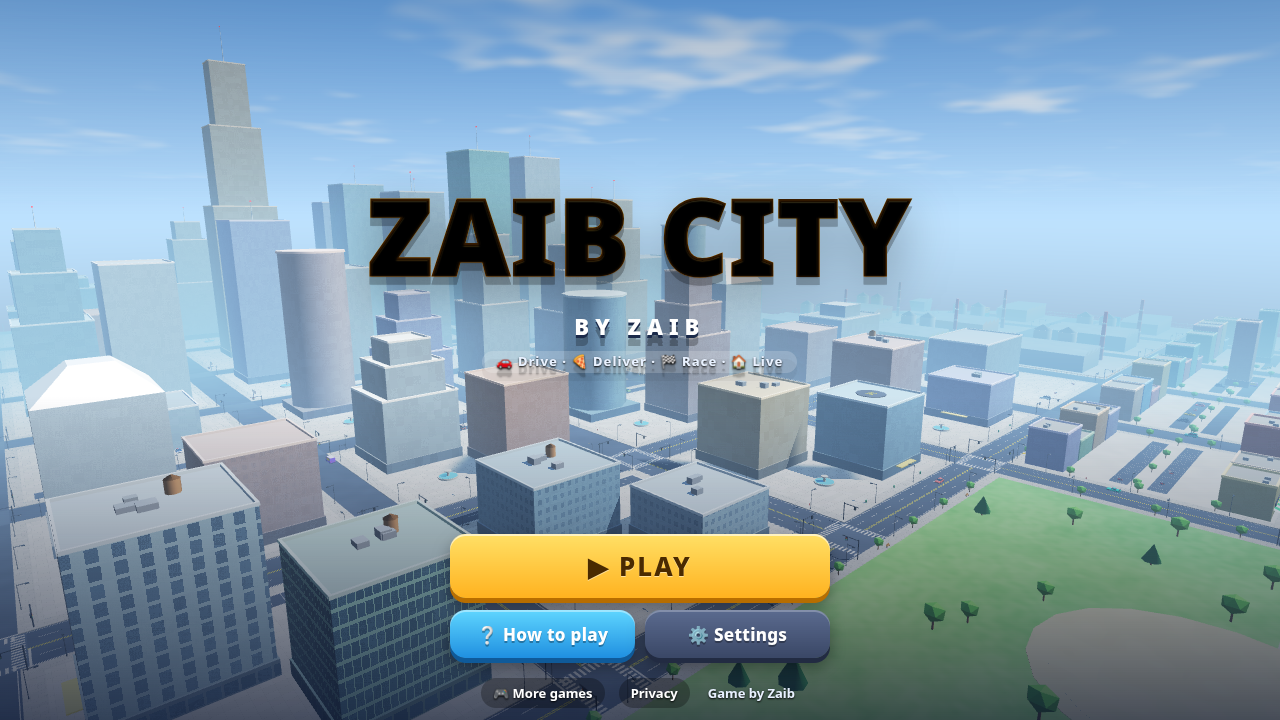
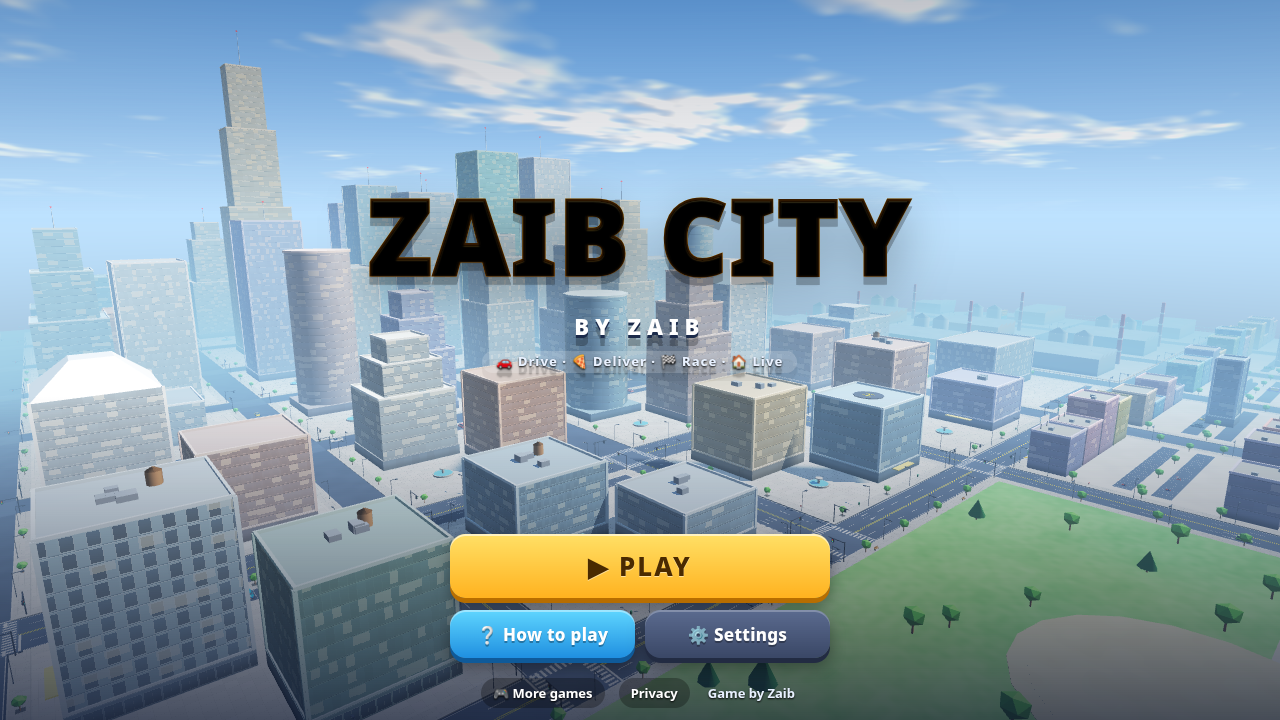
Graphics upgrade: richer facades, street dressing, cars, character, sky, rain, water, night lights, HUD polish

diff --git a/index.html b/index.html
@@ -125,6 +125,20 @@ body.steer-stick.car #joyZone{display:block!important}body.steer-stick.car #bL,b
 body.lefty #bGas{right:auto;left:calc(var(--sal) + 18px)}body.lefty #bBrake{right:auto;left:calc(var(--sal) + 124px)}body.lefty #bNitro{right:auto;left:calc(var(--sal) + 30px)}body.lefty #bHand{right:auto;left:calc(var(--sal) + 112px)}body.lefty #bHorn{right:auto;left:calc(var(--sal) + 186px)}
 body.lefty #bL{left:auto;right:calc(var(--sar) + 114px)}body.lefty #bR{left:auto;right:calc(var(--sar) + 18px)}
 @media (orientation:portrait){#bGas{width:84px;height:84px}#bBrake{width:64px;height:64px;right:calc(var(--sar) + 106px)}#bL,#bR{width:72px;height:72px}#bR{left:calc(var(--sal) + 98px)}#bHand{right:calc(var(--sar) + 96px);bottom:calc(var(--sab) + 92px);width:56px;height:56px}#bNitro{bottom:calc(var(--sab) + 118px);width:56px;height:56px}#bHorn{right:calc(var(--sar) + 22px);bottom:calc(var(--sab) + 184px);width:44px;height:44px}#bSiren{right:calc(var(--sar) + 76px);bottom:calc(var(--sab) + 160px)}body.car #bEnter{bottom:calc(var(--sab) + 236px)}#bSpray{right:calc(var(--sar) + 20px);bottom:calc(var(--sab) + 290px)}#speedo{bottom:calc(var(--sab) + 112px)}#prompt{bottom:calc(var(--sab) + 200px)}#obj{max-width:calc(100vw - 150px);top:calc(var(--sat) + 150px)}#toasts{top:calc(var(--sat) + 220px)}#hudTR{max-width:104px}}
+
+/* polished control buttons: glossy dome, coloured rim, inner depth */
+.cb{background:radial-gradient(circle at 50% 30%,rgba(70,86,120,.78),rgba(18,26,46,.82) 70%);box-shadow:0 5px 0 rgba(0,0,0,.28),0 8px 18px rgba(0,0,0,.35),inset 0 0 0 2.5px rgba(255,255,255,.55),inset 0 -6px 10px rgba(0,0,0,.28);letter-spacing:.5px;transition:transform .06s}
+.cb::before{content:"";position:absolute;left:14%;right:14%;top:6%;height:38%;border-radius:50% 50% 45% 45%/60% 60% 40% 40%;background:linear-gradient(180deg,rgba(255,255,255,.42),rgba(255,255,255,0));pointer-events:none}
+#bL::before,#bR::before{border-radius:16px 16px 40% 40%}
+.cb.on{transform:scale(.9) translateY(2px);box-shadow:0 2px 0 rgba(0,0,0,.28),0 4px 10px rgba(0,0,0,.35),inset 0 0 0 2.5px rgba(255,255,255,.75),inset 0 4px 10px rgba(0,0,0,.25)}
+#bGas{background:radial-gradient(circle at 50% 30%,#5df0a6,#16a565 72%)}
+#bBrake{background:radial-gradient(circle at 50% 30%,#ff8d80,#d33a32 72%)}
+#bNitro{background:radial-gradient(circle at 50% 30%,#7cc4ff,#1f6fe0 72%)}
+#bEnter{background:radial-gradient(circle at 50% 30%,#ffe27a,#f2a611 72%)}
+#bSpray{background:radial-gradient(circle at 50% 30%,#8fe4ff,#1aa0dc 72%)}
+#bGas.on,#bBrake.on,#bNitro.on,#bSpray.on{filter:brightness(1.18)}
+.ib{background:linear-gradient(180deg,rgba(44,60,96,.86),rgba(14,22,40,.86));box-shadow:0 3px 0 rgba(0,0,0,.25),0 5px 12px rgba(0,0,0,.35),inset 0 0 0 1.5px rgba(255,255,255,.28),inset 0 1px 0 rgba(255,255,255,.35)}
+.pill{background:linear-gradient(180deg,rgba(30,44,74,.86),rgba(12,18,34,.86));box-shadow:0 3px 10px rgba(0,0,0,.3),inset 0 0 0 1px rgba(255,255,255,.18)}
 /* dialog */
 #dlg{position:fixed;left:50%;bottom:calc(var(--sab) + 14px);transform:translateX(-50%);width:min(680px,calc(100vw - 24px));z-index:40;display:flex;gap:12px;align-items:flex-start;background:linear-gradient(180deg,rgba(255,255,255,.97),rgba(232,240,255,.97));color:#1b2a4a;border-radius:20px;padding:14px 16px;box-shadow:0 12px 34px rgba(0,0,0,.45);border:3px solid #fff;cursor:pointer;pointer-events:auto}
 #dlgAv{width:62px;height:62px;flex:0 0 62px;border-radius:18px;display:flex;align-items:center;justify-content:center;font-size:36px;box-shadow:inset 0 -4px 0 rgba(0,0,0,.15)}
@@ -369,7 +383,7 @@ vec3 grade(vec3 c){ c = max(c, 0.); vec3 k = max(c - .72, 0.); c = c - k + k/(1.
 vec3 envCol(vec3 R){ float y = R.y; vec3 c = mix(uHor, uSky*1.15, smoothstep(0.,.5,y)); c = mix(c, uGnd*.8, smoothstep(0.,-.25,y)); return c + uSunCol*pow(max(dot(R,uSunDir),0.),24.)*.6; }
 vec3 shade(vec3 base, vec3 n, vec3 W, float gls, float ao, float sh){
   vec3 V = uCam - W; float dist = length(V); V /= dist;
-  float up = step(.8, n.y); float wet = uWet*up; base *= 1. - .3*wet; gls = max(gls, wet*.6);
+  float up = step(.8, n.y); float wet = uWet*up; float pud = wet > 0. ? smoothstep(.5,.68,vno(W.xz*.12)) : 0.; base *= 1. - .3*wet - .2*pud*wet; gls = max(gls, wet*(.55 + .4*pud));
   float ndl = max(dot(n, uSunDir), 0.)*sh;
   vec3 amb = mix(uGnd, uSky, n.y*.5+.5)*ao;
   vec3 col = base*(amb + uSunCol*ndl);
@@ -380,7 +394,7 @@ vec3 shade(vec3 base, vec3 n, vec3 W, float gls, float ao, float sh){
     col += base*uHL*cone*(max(dot(n,L),0.)*.8+.2)*(120./(d*d*.3+40.))*vec3(1.,.93,.8); }
   return col;
 }
-vec3 fogit(vec3 col, vec3 W){ float dist = length(uCam - W); float f = 1. - exp(-dist*dist*uFogD*uFogD); float hfall = exp(-max(W.y,0.)*.004); return mix(col, uFogCol, clamp(f*hfall,0.,1.)); }
+vec3 fogit(vec3 col, vec3 W){ vec3 dv = W - uCam; float dist = length(dv); float f = 1. - exp(-dist*dist*uFogD*uFogD); float hfall = exp(-max(W.y,0.)*.006); float sc = pow(max(dot(dv/max(dist,.01), uSunDir),0.), 6.); vec3 fc = uFogCol + uSunCol*sc*.12*(1.-uNight); return mix(col, fc, clamp(f*hfall,0.,1.)); }
 float emis(float em, float flags){
   if(em < .5) return 0.;
   if(em < 1.5) return 1.;
@@ -402,25 +416,39 @@ const FS_STATIC = PREC + `varying vec3 vW, vN; varying vec4 vC, vM, vS;
 void main(){
   vec3 n = dot(vN,vN) > 1e-6 ? normalize(vN) : vec3(0.,1.,0.); vec3 base = vC.rgb; float ao = vC.a; float gls = vM.x/255.; float sp = vM.z; float e = emis(vM.y, 0.);
   vec3 ecol = base*1.7;
+  float gao = abs(n.y) < .5 ? mix(.58, 1., smoothstep(.2, 3.2, vW.y)) : 1.;
   if(sp > .5 && sp < 1.5 && abs(n.y) < .5){
-    float st = floor(vM.w/64.); float seed = mod(vM.w,64.);
+    float mw = floor(vM.w + .5); float st = floor(mw/64. + .001); float seed = mw - st*64.;
     float u = abs(n.x) > abs(n.z) ? vW.z : vW.x;
     vec2 cs = st < .5 ? vec2(3.2,3.6) : st < 1.5 ? vec2(1.6,3.6) : st < 2.5 ? vec2(4.,3.6) : vec2(2.6,3.);
     vec2 cell = vec2(u/cs.x, (vW.y-.4)/cs.y); vec2 f = fract(cell); vec2 id = floor(cell);
-    float win;
-    if(st < .5) win = step(.16,f.x)*step(f.x,.84)*step(.22,f.y)*step(f.y,.86);
-    else if(st < 1.5) win = step(.06,f.x)*step(f.x,.94)*step(.12,f.y)*step(f.y,.9);
-    else if(st < 2.5) win = step(.1,f.x)*step(f.x,.6)*step(.15,f.y)*step(f.y,.92);
-    else win = step(.25,f.x)*step(f.x,.75)*step(.3,f.y)*step(f.y,.8);
-    float gf = 1. - step(.5, id.y); win = mix(win, step(.08,f.x)*step(f.x,.92)*step(.05,f.y)*step(f.y,.8), gf);
+    vec4 wr = st < .5 ? vec4(.16,.84,.22,.86) : st < 1.5 ? vec4(.06,.94,.12,.9) : st < 2.5 ? vec4(.1,.6,.15,.92) : vec4(.22,.78,.26,.82);
+    float gf = 1. - step(.5, id.y); wr = mix(wr, vec4(.06,.94,.05,.82), gf);
+    float win = step(wr.x,f.x)*step(f.x,wr.y)*step(wr.z,f.y)*step(f.y,wr.w);
+    float fw = .035; float frm = (step(wr.x-fw,f.x)*step(f.x,wr.y+fw)*step(wr.z-fw,f.y)*step(f.y,wr.w+fw)) - win;
+    float mull = st > 1.5 ? 0. : step(abs(f.x - (wr.x+wr.y)*.5), .012)*win;
+    float sill = step(wr.z-.07,f.y)*step(f.y,wr.z-.01)*step(wr.x-.04,f.x)*step(f.x,wr.y+.04)*(1.-gf);
+    float ledge = (1.-gf)*step(f.y,.045); float ledgeSh = (1.-gf)*smoothstep(.13,.05,f.y)*step(.045,f.y);
     float h = hs2(id + seed*7.13);
-    vec3 wc = mix(vec3(.16,.24,.34), vec3(.30,.42,.55), h*.6);
-    float fd = smoothstep(70., 260., length(uCam - vW)); win = mix(win, .45, fd);
-    base = mix(base, wc, win); gls = mix(gls, .85, win);
-    float lit = step(.52, h) * win;
-    e = max(e, lit*uNight); ecol = mix(vec3(1.,.82,.5), vec3(.75,.88,1.), step(.85,h))*1.2;
+    vec3 Vd = normalize(uCam - vW); vec3 Rr = reflect(-Vd, n);
+    vec3 wc = mix(vec3(.13,.2,.3), vec3(.27,.4,.54), h*.7);
+    wc = mix(wc, envCol(Rr)*.85, .38 + .25*(1.-f.y));
+    wc *= .9 + .2*smoothstep(wr.z, wr.w, f.y);
+    float blind = step(.72, hs2(id*1.7 + seed)) * step(mix(wr.w, wr.z, .45 + .4*hs2(id+3.1)), f.y);
+    wc = mix(wc, vec3(.82,.78,.68), blind*.7*(1.-gf));
+    float dcam = length(uCam - vW); float px = min(cs.x, cs.y)*max(abs(dot(n, Vd)), .02)/dcam*650.;
+    float fd = max(smoothstep(70., 260., dcam), 1. - smoothstep(5., 14., px));
+    vec3 fcol = mix(base, vec3(.94,.93,.9), .55);
+    base = mix(base, base*1.12 + .04, ledge); base *= 1. - .22*ledgeSh; base = mix(base, base*1.1+.05, sill);
+    base = mix(base, fcol, frm*(1.-fd)); win = mix(win, .45, fd); mull *= 1.-fd;
+    base = mix(base, wc, win); base = mix(base, fcol*.8, mull); gls = mix(gls, .9, win);
+    float lit = mix(step(.5, h) * win, .3, fd);
+    float lv = mix(.75 + .5*hs2(id*2.3+seed), .9, fd); blind *= 1. - fd;
+    e = max(e, lit*uNight*lv); ecol = mix(vec3(1.,.8,.48), vec3(.75,.88,1.), step(.86,h))*(1.05 + .25*(1.-f.y));
+    ecol = mix(ecol, ecol*.55, blind);
     ao = 1.;
   }
+  ao *= gao;
   if(sp > 2.5 && sp < 3.5){ gls = .9; }
   if(n.y > .9){
     if(sp > 3.5 && sp < 5.5){ float ts = sp < 4.5 ? 1.25 : 2.5; vec2 g = vW.xz/ts; vec2 gf = abs(fract(g) - .5); float ln = smoothstep(.47,.495,max(gf.x,gf.y)); float tv = hs2(floor(g)); base *= (.94 + .1*tv)*(1. - .16*ln); }
@@ -468,6 +496,7 @@ void main(){
   if(uDmg > 0. && vM.w > .5 && vM.w < 1.5){ float d = hs2(floor(vW.xz*3.)+floor(vW.y*3.)); base *= 1. - uDmg*.45*step(.55, d); gls *= 1. - uDmg*.7; }
   float sh = shadowAt(vS);
   vec3 col = shade(base, n, vW, gls, vC.a, sh);
+  if(vM.w > .5 && vM.w < 2.5 && vM.z < 9.5){ vec3 V2 = normalize(uCam - vW); vec3 R2 = reflect(-V2, n); float fr2 = pow(1. - max(dot(n,V2),0.), 3.); col += envCol(R2)*fr2*.22*gls + uSunCol*pow(max(dot(R2,uSunDir),0.), 90.)*.9*sh*gls; }
   if(e > 0.) col = mix(col, vC.rgb*1.8 + .15, e*.95);
   gl_FragColor = vec4(grade(fogit(col, vW)), 1.);
 }`;
@@ -492,11 +521,19 @@ void main(){
     vec2 sp = d.xz/(y+.05)*30.; float st = step(.997, h2(floor(sp*6.)))*smoothstep(.0,.3,y);
     col += vec3(st)*uNight*.9*(.6+.4*sin(uTime*3.+h2(floor(sp*6.))*20.));
     if(uQ > .5){
-      vec2 cp = d.xz/(y+.08)*1.4 + vec2(uTime*.006, uTime*.002);
-      float c = vn(cp)*.55 + vn(cp*2.3)*.3 + vn(cp*5.1)*.15;
-      c = smoothstep(.62 - uCloud*.32, .92 - uCloud*.2, c)*smoothstep(0.,.15,y);
-      vec3 cc = mix(vec3(1.), uSunCol*.6 + uSky*.6, .25)*(1. - uNight*.75)*(1. - uCloud*.35) + uNight*vec3(.05,.06,.09);
-      col = mix(col, cc, c*.9);
+      vec2 cp = d.xz/(y+.1)*1.2 + vec2(uTime*.006, uTime*.002);
+      vec2 wp = cp + vec2(vn(cp*.7+3.1), vn(cp*.7+7.3))*.6;
+      float c = vn(wp)*.5 + vn(wp*2.1)*.28 + vn(wp*4.6)*.14 + vn(wp*9.7)*.08;
+      vec2 so = normalize(uSunDir.xz + 1e-4)*.09;
+      float c2 = vn(wp+so)*.5 + vn((wp+so)*2.1)*.28 + vn((wp+so)*4.6)*.14;
+      float cov = .6 - uCloud*.3;
+      float a = smoothstep(cov, cov + .22, c)*smoothstep(0.,.12,y);
+      float lit = clamp(.65 + (c - c2)*4.5, .25, 1.15);
+      vec3 cb = mix(uHor*.75 + vec3(.06), vec3(1.), .55);
+      vec3 cc = mix(cb*vec3(.78,.82,.92), vec3(1.02,1.,.97) + uSunCol*.12, lit) * (1. - uNight*.8) * (1. - uCloud*.32) + uNight*vec3(.04,.05,.08);
+      cc += uSunCol*pow(sd, 6.)*(1.-a)*.6*(1.-uNight);
+      col = mix(col, cc, a*.95);
+      col = mix(col, uHor, smoothstep(.12,.0,y)*.35);
     }
   }
   gl_FragColor = vec4(clamp(col,0.,1.), 1.);
@@ -510,20 +547,28 @@ void main(){
   float hx = vn(p*.08 + vec2(t*.15, t*.05)) - vn(p*.08 + vec2(.5 + t*.15, t*.05));
   float hz = vn(p*.08 + vec2(t*.05, t*.13)) - vn(p*.08 + vec2(t*.05, .5 + t*.13));
   float hx2 = vn(p*.35 - vec2(t*.4, t*.2)) - vn(p*.35 + vec2(.3,0.) - vec2(t*.4, t*.2));
-  vec3 n = normalize(vec3((hx + hx2*.5)*.55, 1., (hz)*.55));
+  float hz2 = vn(p*.35 + vec2(t*.3, -t*.35)) - vn(p*.35 + vec2(0.,.3) + vec2(t*.3, -t*.35));
+  float hx3 = vn(p*1.3 + vec2(t*.9, t*.4)) - vn(p*1.3 + vec2(.25,0.) + vec2(t*.9, t*.4));
+  vec3 n = normalize(vec3((hx + hx2*.5 + hx3*.22)*.6, 1., (hz + hz2*.5)*.6));
   vec3 V = uCam - vW; float dist = length(V); V /= dist;
+  n = normalize(mix(n, vec3(0.,1.,0.), smoothstep(80.,400.,dist)*.7));
   float depth = clamp(max(vW.z - 1215., vW.x - 1215.)/90., 0., 1.);
-  vec3 deep = mix(vec3(.02,.28,.42), vec3(.0,.12,.25), depth);
-  vec3 shallow = vec3(.1,.62,.66);
-  vec3 base = mix(shallow, deep, smoothstep(.05,.6,depth));
-  float fr = .04 + .96*pow(1. - max(dot(n, V), 0.), 5.);
-  vec3 R = reflect(-V, n); vec3 env = envCol(R);
+  vec3 deep = mix(vec3(.02,.3,.46), vec3(.01,.14,.3), depth);
+  vec3 shallow = vec3(.12,.68,.7);
+  vec3 base = mix(shallow, deep, smoothstep(.03,.5,depth));
+  float fr = .03 + .97*pow(1. - max(dot(n, V), 0.), 5.);
+  vec3 R = reflect(-V, n); R.y = abs(R.y); vec3 env = envCol(R);
   float sh = shadowAt(uShM2*vec4(vW,1.));
-  vec3 col = base*(mix(uGnd,uSky,.7)*.9 + uSunCol*.35*sh);
-  col = mix(col, env, clamp(fr,0.,1.)*.85);
-  vec3 H = normalize(uSunDir + V); col += uSunCol*pow(max(dot(n,H),0.), 220.)*3.*sh;
-  float foam = smoothstep(.06,.0,depth)*(.55 + .45*sin(vW.z*.8 + vW.x*.3 - t*2.)) ;
-  col = mix(col, vec3(.95), foam*.6);
+  vec3 col = base*(mix(uGnd,uSky,.7)*.95 + uSunCol*.4*sh);
+  col += vec3(.0,.08,.07)*max(hx2+hz2,0.)*(1.-uNight);
+  col = mix(col, env, clamp(fr,0.,1.)*.8);
+  vec3 H = normalize(uSunDir + V); float sp = max(dot(n,H),0.);
+  col += uSunCol*(pow(sp, 300.)*4. + pow(sp, 40.)*.15)*sh;
+  float gl2 = step(.985, vn(p*2.2 + t*.6))*pow(sp, 12.)*(1.-uNight);
+  col += uSunCol*gl2*1.5;
+  float wv = sin(vW.z*.8 + vW.x*.3 - t*2.) * .5 + .5;
+  float foam = smoothstep(.07,.0,depth)*(.45 + .55*wv)*step(.35, vn(p*1.5 + t*.3) + .3*wv);
+  col = mix(col, vec3(.96), foam*.75);
   gl_FragColor = vec4(grade(fogit(col, vW)), 1.);
 }`;
 const VS_PART = `attribute vec3 aP; attribute vec4 aC; attribute vec4 aM; uniform mat4 uVP; uniform vec3 uR, uU; varying vec4 vC; varying vec2 vO; varying vec3 vW;
@@ -869,6 +914,12 @@ function roadLines(mb, s0, s1, c, hw, ax) {
   L(s0, s1, .22, .1, COL.yellow); L(s0, s1, -.22, .1, COL.yellow);
   L(s0, s1, hw - .5, .09, COL.line); L(s0, s1, -hw + .5, .09, COL.line);
   const lo = hw * .5; for (let s = s0 + 2; s < s1 - 3; s += 9) { L(s, s + 4, lo, .08, COL.line); L(s, s + 4, -lo, .08, COL.line); }
+  const gc = C('#30343c'), y2 = .03; const G2 = (off, w) => { if (ax === 'x') mb.quad([s0, y2, c + off + w], [s1, y2, c + off + w], [s1, y2, c + off - w], [s0, y2, c + off - w], gc, mat(.2)); else mb.quad([c + off - w, y2, s0], [c + off - w, y2, s1], [c + off + w, y2, s1], [c + off + w, y2, s0], gc, mat(.2)); };
+  G2(hw - .2, .2); G2(-hw + .2, .2);
+  // lane arrows before each end (pointing in the travel direction of the right-hand lanes)
+  if (s1 - s0 > 40) for (const [at, dir] of [[s1 - 14, 1], [s0 + 14, -1]]) for (const lk of [.27, .72]) { const off = (ax === 'x' ? dir : -dir) * hw * lk; const P = (a, o) => ax === 'x' ? [at + a * dir, .036, c + off + o] : [c + off + o, .036, at + a * dir];
+    const q2 = (A, B2, C2, D2) => { mb.quad(A, B2, C2, D2, COL.line, mat(.1)); mb.quad(D2, C2, B2, A, COL.line, mat(.1)); }; q2(P(-2.2, .12), P(.4, .12), P(.4, -.12), P(-2.2, -.12)); mb.tri(P(.4, .45), P(1.4, 0), P(.4, -.45), COL.line, mat(.1)); mb.tri(P(.4, -.45), P(1.4, 0), P(.4, .45), COL.line, mat(.1)); }
+  const R = RNG(Math.floor(s0 * 7 + c * 3)); const mh = C('#2a2d33'); for (let s = s0 + 12; s < s1 - 12; s += 37) { const o = (R() - .5) * hw; if (ax === 'x') mb.cyl(s, .025, c + o, .45, .012, 8, mh, { m: mat(.5) }); else mb.cyl(c + o, .025, s, .45, .012, 8, mh, { m: mat(.5) }); }
 }
 function laneOff(e, lane) { return lane ? e.hw * .72 : e.hw * .27; }
 function trafficLight(mb, n, e, dx, dz) {
@@ -908,12 +959,19 @@ function sidewalkRing(o, zone) {
   const lampEvery = zone === 'suburb' ? 34 : 28;
   for (let x = x0 + 8; x < x1 - 6; x += lampEvery) { addLamp(x, z0 + 1, 0); addLamp(x + lampEvery / 2, z1 - 1, PI); }
   for (let z = z0 + 14; z < z1 - 6; z += lampEvery) { addLamp(x0 + 1, z, PI / 2); addLamp(x1 - 1, z + lampEvery / 2, -PI / 2); }
+  { const ke = C('#d9d3c7'); const kq = (a, b, c2, d) => B((a + c2) / 2, (b + d) / 2).quad([a, y + .004, d], [c2, y + .004, d], [c2, y + .004, b], [a, y + .004, b], ke, mat(.08)); kq(x0, z0, x1, z0 + .3); kq(x0, z1 - .3, x1, z1); kq(x0, z0 + .3, x0 + .3, z1 - .3); kq(x1 - .3, z0 + .3, x1, z1 - .3); }
+  if (zone === 'downtown') {
+    const gr = C('#4a4640'); const tg = (x, z) => { addTree(x, z, 0, .62); D(x, z).box(x - .8, y, z - .8, x + .8, y + .03, z + .8, gr, { m: mat(.4) }); };
+    for (let x = x0 + 22; x < x1 - 10; x += 28) { tg(x, z0 + 2.2); tg(x - 14, z1 - 2.2); }
+    for (let z = z0 + 26; z < z1 - 10; z += 28) { tg(x0 + 2.2, z); tg(x1 - 2.2, z - 14); }
+  }
   if (zone === 'suburb' || zone === 'midtown' || zone === 'park') {
     for (let x = x0 + 16; x < x1 - 8; x += 22) { addTree(x, z0 + 2.2, zone === 'midtown' ? 0 : 0, .75); addTree(x + 9, z1 - 2.2, 0, .75); }
     for (let z = z0 + 22; z < z1 - 8; z += 22) { addTree(x0 + 2.2, z, 0, .75); addTree(x1 - 2.2, z + 9, 0, .75); }
   }
   const R = RNG(Math.floor(x0 * 3 + z0));
   for (let k = 0; k < 3; k++) { const x = R.range(x0 + 6, x1 - 6); bench(D(x, z0), x, y, z0 + 3.3, PI); if (R() < .5) bin(D(x, z1), x + 3, y, z1 - 3.4); if (R() < .5) hydrant(D(x0, x), x0 + 3.4, y, R.range(z0 + 6, z1 - 6)); }
+  if ((zone === 'downtown' || zone === 'midtown') && R() < .6) { const x = R.range(x0 + 20, x1 - 20), mb2 = D(x, z0); mb2.push(); mb2.xf(x, y, z0 + 3.1, PI); const fr = C('#3a4049'), gl2 = C('#9fc6dc'); for (const sx of [-1.6, 1.6]) mb2.box(sx - .05, 0, -.05, sx + .05, 2.5, .05, fr, { m: mat(.6) }); mb2.box(-1.8, 2.5, -.7, 1.8, 2.62, .5, C('#2f8fd8'), { m: mat(.4) }); mb2.box(-1.6, .6, -.62, 1.6, 2.4, -.58, gl2, { m: mat(.9, 0, 3) }); mb2.box(1.62, .6, -.6, 1.66, 2.4, .2, gl2, { m: mat(.9, 0, 3) }); mb2.box(-1.2, .42, -.5, 1.2, .5, -.15, C('#a8703f')); mb2.box(-1.7, .5, -.66, -1.65, 2.3, -.1, C('#ffd23f'), { m: [60, 2, 0, 0] }); mb2.pop(); addBox(x - 1.8, z0 + 2.5, x + 1.8, z0 + 3.8, 2.6); }
   // ped loop (sidewalk midline)
   W.peds.push({ pts: [[x0 + 2, z0 + 2], [x1 - 2, z0 + 2], [x1 - 2, z1 - 2], [x0 + 2, z1 - 2]], zone, cx: (x0 + x1) / 2, cz: (z0 + z1) / 2 });
 }
@@ -928,7 +986,7 @@ function parkingLot(mb, x0, z0, x1, z1, horiz) {
 function facadeMat(style, seed, gloss) { return [Math.round((gloss || .2) * 255), 0, 1, (style & 3) * 64 + (seed & 63)]; }
 function tower(x, z, w, d, h, R, dt) {
   const mb = B(x, z), dm = D(x, z); const col = R.pick(PAL_DT); const style = R.int(0, 3); const seed = R.int(0, 63); const fm = facadeMat(style, seed, style === 1 ? .55 : .25);
-  const plinth = mixC(col, [.25, .27, .3], .55);
+  const plinth = mixC(col, [.36, .38, .42], .45);
   mb.box(x - w / 2 - .4, .2, z - d / 2 - .4, x + w / 2 + .4, 4.2, z + d / 2 + .4, plinth, { m: facadeMat(0, seed, .5), ao: .55 });
   const kind = R();
   let top = h;
@@ -948,6 +1006,9 @@ function tower(x, z, w, d, h, R, dt) {
     mb.box(x - w / 2, 4.2, z - d / 2, x + w / 2, h * .82, z + d / 2, col, { m: fm });
     mb.taper(x, h * .82, z, w, d, h * .18, w * .35, d * .35, col, { m: fm, top: C('#dfe6ee') });
   }
+  // corner pilasters + cornice band for depth (box-type towers)
+  if (kind < .35 || h < 40 || kind >= .85) { const pc = mixC(col, [1, 1, 1], .22), th = (kind >= .85 && h >= 40) ? h * .82 : h; for (const sx of [-1, 1]) for (const sz of [-1, 1]) { const qx = x + sx * w / 2, qz = z + sz * d / 2; mb.box(qx - .45, 4.2, qz - .45, qx + .45, th + .3, qz + .45, pc, { m: mat(.2) }); }
+    mb.box(x - w / 2 - .35, 4.2, z - d / 2 - .35, x + w / 2 + .35, 4.75, z + d / 2 + .35, mixC(col, [1, 1, 1], .3), { m: mat(.2) }); }
   // rooftop details
   const ry = top; const rc = C('#8d939c');
   if (R() < .4 && kind < .7) { // helipad
@@ -984,6 +1045,9 @@ function shopBlock(x, z, w, d, floors, R, face) {
   const sc = R.pick([C('#ff4f7b'), C('#4fd1ff'), C('#ffe14f'), C('#7dff6a'), C('#ff9b3d')]);
   dm.box(-sw * .3, 4.3, 0, sw * .3, 5.3, .35, C('#2a2d35')); dm.box(-sw * .26, 4.45, .35, sw * .26, 5.15, .45, sc, { m: [60, 2, 0, 0] });
   dm.pop();
+  if (R() < .35) { const bw = Math.min(sw * .9, 9), bc = R.pick([C('#ff5d8a'), C('#2bc4ff'), C('#ffd23f'), C('#3ddc97'), C('#ff8a3d'), C('#b388ff')]); dm.push(); dm.xf(x + fx * (off - 1.5), h, z + fz * (off - 1.5), Math.atan2(fx, fz)); for (const sx of [-bw * .35, bw * .35]) dm.box(sx - .1, 0, -.1, sx + .1, 2.2, .1, C('#3a4049')); dm.box(-bw / 2, 2.2, -.15, bw / 2, 5, .05, C('#f4f4f4')); dm.box(-bw / 2 + .2, 2.4, .05, bw / 2 - .2, 4.8, .12, bc, { m: [90, 2, 0, 0] }); dm.box(-bw / 2 + .6, 3.3, .12, bw / 2 - .6, 3.9, .16, C('#ffffff'), { m: [90, 2, 0, 0] }); dm.pop(); }
+  else if (floors > 2 && R() < .6) { dm.push(); dm.xf(x + fx * off, 0, z + fz * off, Math.atan2(fx, fz)); const rc2 = C('#f4f4f4'); for (let f = 2; f < floors; f++) { const by = 1 + f * 3.6 - .2; for (let q = -1; q <= 1; q += 2) { const bx = q * sw * .25; dm.box(bx - 1.3, by, 0, bx + 1.3, by + .15, 1, mixC(col, [1, 1, 1], .4)); dm.box(bx - 1.3, by + .15, .92, bx + 1.3, by + 1, 1, rc2, { m: mat(.4) }); dm.box(bx - 1.3, by + .15, 0, bx - 1.22, by + 1, 1, rc2); dm.box(bx + 1.22, by + .15, 0, bx + 1.3, by + 1, 1, rc2); } } dm.pop(); }
+  dm.push(); dm.xf(x + fx * off, 0, z + fz * off, Math.atan2(fx, fz)); dm.box(-.8, .2, -.02, .8, 2.6, .06, C('#5b3a25'), { m: mat(.4) }); dm.box(-.7, .3, .05, .7, 2.5, .08, C('#8fc1dc'), { m: mat(.9, 2, 3) }); dm.pop();
   // rooftop AC & water tank
   for (let k = 0; k < 2; k++) dm.cbox(x + R.range(-w / 3, w / 3), h, z + R.range(-d / 3, d / 3), 1.6, 1.1, 1.6, C('#9aa0a8'), { m: mat(.3) });
   addBox(x - w / 2, z - d / 2, x + w / 2, z + d / 2, h);
@@ -1400,7 +1464,7 @@ function lights(mb, L, W, yh, yt, opt) {
 }
 function lightbar(mb, y, z, w) { mb.box(-w / 2, y, z - .15, 0, y + .16, z + .15, C('#ff2a2a'), { m: [150, 4, 0, 0] }); mb.box(0, y, z - .15, w / 2, y + .16, z + .15, C('#2a6bff'), { m: [150, 5, 0, 0] }); mb.box(-w / 2 - .02, y - .04, z - .17, w / 2 + .02, y, z + .17, C('#222')); }
 function wheelPos(id) {
-  const d = VDEF[id], L = d.L, Wd = d.W, r = d.wr; const fx = Wd / 2 - .12;
+  const d = VDEF[id], L = d.L, Wd = d.W, r = d.wr; const fx = Wd / 2 - .07;
   if (d.bike) return [[0, r, L / 2 - .35], [0, r, -L / 2 + .35]];
   if (id === 'bus') return [[fx, r, L / 2 - 2.2], [-fx, r, L / 2 - 2.2], [fx, r, -L / 2 + 2.4], [-fx, r, -L / 2 + 2.4]];
   if (id === 'fire') return [[fx, r, L / 2 - 1.6], [-fx, r, L / 2 - 1.6], [fx, r, -L / 2 + 2], [-fx, r, -L / 2 + 2], [fx, r, -L / 2 + 3.2], [-fx, r, -L / 2 + 3.2]];
@@ -1426,6 +1490,12 @@ function buildVehicle(id) {
     for (const w of wheelPos(id)) arch(w[2], d.wr);
     // side stripe / trim
     mb.box(-hw - .01, P.y0 + .02, -L / 2 + .3, -hw + .01, P.y0 + .12, L / 2 - .3, dark); mb.box(hw - .01, P.y0 + .02, -L / 2 + .3, hw + .01, P.y0 + .12, L / 2 - .3, dark);
+    // plates, grille, door seams, sills, tail light bar
+    mb.box(-.26, P.y0 + .1, -L / 2 - .1, .26, P.y0 + .3, -L / 2 - .07, C('#f4f1e6'), { m: mat(.4) }); mb.box(-.26, P.y0 + .02, L / 2 + .07, .26, P.y0 + .2, L / 2 + .1, C('#f4f1e6'), { m: mat(.4) });
+    for (let k = 0; k < 3; k++) mb.box(-Wd * .17, P.ys[P.ys.length - 1] - .3 + k * .07, L / 2 + .015, Wd * .17, P.ys[P.ys.length - 1] - .27 + k * .07, L / 2 + .035, C('#9ea6b0'), { m: mat(.9) });
+    for (const s of [-1, 1]) { mb.box(s * hw - .012, P.y0 + .15, zf - .55, s * hw + .012, yb - .02, zf - .52, dark); mb.box(s * hw - .012, P.y0 + .15, (zr + zf) / 2 - .03, s * hw + .012, yb - .02, (zr + zf) / 2, dark); mb.box(s * hw - .02, P.y0 - .04, -L / 2 + .55, s * hw + .02, P.y0 + .04, L / 2 - .55, C('#1b1d21')); mb.box(s * (hw - .2) - .1, yb - .25, zf - .62, s * (hw - .2) + .1, yb - .21, zf - .55, C('#cfd5dd'), { m: mat(.9) }); }
+    mb.box(-Wd * .16, P.ys[0] - .2, -L / 2 - .025, Wd * .16, P.ys[0] - .12, -L / 2 + .01, C('#a3131a'), { m: [160, 3, 0, 0] });
+    if (id !== 'suv') mb.box(Wd * .26, P.y0 - .02, -L / 2 - .12, Wd * .34, P.y0 + .06, -L / 2 + .1, C('#8a9099'), { m: mat(.8) });
     // mirrors
     for (const s of [-1, 1]) mb.box(s * hw - .02, yb + .05, zf - .25, s * (hw + .16), yb + .2, zf - .1, body, { m: PAINT });
     if (id === 'taxi') { mb.box(-.4, yr, -.25, .4, yr + .26, .25, C('#fff4b8'), { m: [80, 2, 0, 0] }); for (let k = -3; k < 3; k++) for (const s of [-1, 1]) mb.box(s * hw - .012 * s, .62, k * .3, s * (hw + .012), .74, k * .3 + .15, C('#1d1d1d')); }
@@ -1475,26 +1545,37 @@ function buildVehicle(id) {
   }
   return mb;
 }
-function buildWheel() { const mb = new MB(); mb.cylX(0, 0, 0, 1, .62, 12, C('#202226'), { cap: C('#c5cbd3'), ri: .62, mc: mat(.85) }); mb.box(-.33, -.12, -.5, .33, .12, .5, C('#9aa1aa'), { m: mat(.8) }); return mb; }
+function buildWheel() { const mb = new MB(); const tyre = C('#1d1f23');
+  mb.cylX(0, 0, 0, 1, .72, 14, tyre, { cap: C('#2a2c31'), ri: 1, mc: mat(.15) });
+  mb.cylX(0, 0, 0, .66, .76, 14, C('#cfd5dd'), { cap: C('#d9dee5'), ri: .66, mc: mat(.9) });
+  mb.cylX(0, 0, 0, .5, .8, 10, C('#8e959f'), { cap: C('#5c636d'), ri: .5, mc: mat(.6) });
+  for (let k = 0; k < 5; k++) { const a = k / 5 * TAU; mb.push(); mb.xfm([1, 0, 0, 0, Math.cos(a), Math.sin(a), 0, -Math.sin(a), Math.cos(a), 0, 0, 0]); for (const sx of [-1, 1]) mb.box(sx * .4 - .02, -.07, .1, sx * .4 + .02, .07, .62, C('#e3e7ec'), { m: mat(.9) }); mb.pop(); }
+  mb.cylX(0, 0, 0, .16, .86, 8, C('#f0f2f5'), { m: mat(.95) });
+  return mb; }
 // ---------- characters (bones encoded in mat.z = 10+bone; slots: 1 shirt 2 pants 3 skin 4 hair) ----------
 function buildChar(hair) {
   const mb = new MB(); const W = [1, 1, 1];
   const S1 = (b) => [30, 0, 10 + b, 1], S2 = (b) => [20, 0, 10 + b, 2], S3 = (b) => [40, 0, 10 + b, 3], S4 = (b) => [60, 0, 10 + b, 4], DK = (b) => [30, 0, 10 + b, 0];
-  // legs (3 = left +x, 4 = right -x)
-  for (const [b, s] of [[3, 1], [4, -1]]) { mb.box(s * .04, .1, -.1, s * .2, .88, .1, W, { m: S2(b) }); mb.box(s * .03, 0, -.13, s * .21, .12, .17, C('#2b2b30'), { m: DK(b) }); }
-  // torso + hips
-  mb.box(-.23, .82, -.13, .23, 1.0, .13, W, { m: S2(0) });
-  mb.taper(0, .98, 0, .5, .28, .46, .56, .3, W, { m: S1(0) });
-  // arms (1 left +x, 2 right -x)
-  for (const [b, s] of [[1, 1], [2, -1]]) { mb.box(s * .27, 1.06, -.08, s * .4, 1.42, .08, W, { m: S1(b) }); mb.box(s * .28, .82, -.07, s * .39, 1.07, .07, W, { m: S3(b) }); }
-  // neck + head
-  mb.box(-.07, 1.43, -.06, .07, 1.5, .06, W, { m: S3(0) });
-  mb.box(-.17, 1.49, -.16, .17, 1.84, .17, W, { m: S3(0) });
-  mb.box(-.11, 1.64, .17, -.05, 1.71, .18, C('#1d1d1d'), { m: DK(0) }); mb.box(.05, 1.64, .17, .11, 1.71, .18, C('#1d1d1d'), { m: DK(0) });
-  mb.box(-.06, 1.55, .17, .06, 1.575, .18, C('#b0574a'), { m: DK(0) });
-  if (hair === 0) { mb.box(-.185, 1.76, -.18, .185, 1.9, .18, W, { m: S4(0) }); mb.box(-.185, 1.55, -.18, .185, 1.78, -.1, W, { m: S4(0) }); }
-  else if (hair === 1) { mb.box(-.19, 1.74, -.19, .19, 1.9, .19, W, { m: S4(0) }); mb.box(-.19, 1.3, -.2, .19, 1.76, -.08, W, { m: S4(0) }); mb.box(-.19, 1.5, -.12, -.15, 1.76, .1, W, { m: S4(0) }); mb.box(.15, 1.5, -.12, .19, 1.76, .1, W, { m: S4(0) }); }
-  else { mb.box(-.19, 1.78, -.19, .19, 1.95, .19, W, { m: S4(0) }); mb.box(-.19, 1.78, .1, .19, 1.82, .36, W, { m: S4(0) }); mb.box(-.185, 1.56, -.18, .185, 1.78, -.12, C('#3a2a20'), { m: DK(0) }); }
+  const shoe = C('#2b2d33'), sole = C('#f2f2f2');
+  // legs (3 = left +x, 4 = right -x): tapered trousers + trainers with white soles
+  for (const [b, s] of [[3, 1], [4, -1]]) { mb.taper(s * .125, .14, 0, .17, .21, .76, .19, .23, W, { m: S2(b) }); mb.box(s * .03, .0, -.12, s * .22, .07, .2, sole, { m: DK(b) }); mb.box(s * .035, .06, -.11, s * .215, .17, .17, shoe, { m: DK(b) }); mb.box(s * .05, .1, .17, s * .2, .15, .2, sole, { m: DK(b) }); }
+  // hips, belt, torso (tapered), collar
+  mb.box(-.23, .84, -.13, .23, .98, .13, W, { m: S2(0) }); mb.box(-.235, .95, -.135, .235, 1.0, .135, C('#3a2e26'), { m: DK(0) }); mb.box(-.04, .955, .134, .04, .995, .14, C('#d8c27a'), { m: [120, 0, 10, 0] });
+  mb.taper(0, .99, 0, .47, .27, .44, .56, .3, W, { m: S1(0) });
+  mb.taper(0, 1.42, 0, .3, .2, .05, .2, .16, W, { m: S1(0) });
+  mb.box(-.12, 1.36, .12, .12, 1.43, .155, mulC(W, .82), { m: S1(0) });
+  // arms (1 left +x, 2 right -x): sleeve, forearm, hand
+  for (const [b, s] of [[1, 1], [2, -1]]) { mb.taper(s * .335, 1.12, 0, .15, .17, .31, .17, .19, W, { m: S1(b) }); mb.box(s * .275, .86, -.065, s * .39, 1.13, .065, W, { m: S3(b) }); mb.box(s * .27, .76, -.075, s * .395, .87, .075, W, { m: S3(b) }); }
+  // neck + head (slightly tapered, with ears and a friendly face)
+  mb.box(-.07, 1.43, -.06, .07, 1.51, .06, W, { m: S3(0) });
+  mb.taper(0, 1.49, 0, .32, .31, .37, .36, .35, W, { m: S3(0) });
+  for (const s of [-1, 1]) mb.box(s * .175, 1.6, -.03, s * .21, 1.7, .05, W, { m: S3(0) });
+  for (const s of [-1, 1]) { mb.box(s * .045, 1.63, .171, s * .12, 1.71, .178, C('#ffffff'), { m: DK(0) }); mb.box(s * .065, 1.635, .176, s * .11, 1.695, .184, C('#1d1d1d'), { m: DK(0) }); mb.box(s * .04, 1.735, .171, s * .125, 1.755, .18, C('#3a2a20'), { m: DK(0) }); }
+  mb.box(-.07, 1.555, .171, .07, 1.575, .179, C('#9c3f36'), { m: DK(0) }); mb.box(-.085, 1.57, .171, -.06, 1.59, .179, C('#9c3f36'), { m: DK(0) }); mb.box(.06, 1.57, .171, .085, 1.59, .179, C('#9c3f36'), { m: DK(0) });
+  mb.box(-.02, 1.6, .17, .02, 1.66, .2, W, { m: S3(0) });
+  if (hair === 0) { mb.box(-.19, 1.78, -.19, .19, 1.92, .19, W, { m: S4(0) }); mb.box(-.19, 1.55, -.19, .19, 1.8, -.1, W, { m: S4(0) }); mb.box(-.19, 1.68, -.12, -.16, 1.8, .12, W, { m: S4(0) }); mb.box(.16, 1.68, -.12, .19, 1.8, .12, W, { m: S4(0) }); mb.box(-.17, 1.8, .14, .1, 1.86, .21, W, { m: S4(0) }); }
+  else if (hair === 1) { mb.box(-.2, 1.76, -.2, .2, 1.92, .2, W, { m: S4(0) }); mb.box(-.2, 1.28, -.21, .2, 1.78, -.08, W, { m: S4(0) }); mb.box(-.2, 1.46, -.12, -.16, 1.78, .12, W, { m: S4(0) }); mb.box(.16, 1.46, -.12, .2, 1.78, .12, W, { m: S4(0) }); mb.box(-.18, 1.78, .16, .18, 1.84, .21, W, { m: S4(0) }); }
+  else { mb.box(-.2, 1.8, -.2, .2, 1.96, .2, W, { m: S4(0) }); mb.box(-.2, 1.8, .12, .2, 1.85, .38, W, { m: S4(0) }); mb.box(-.19, 1.56, -.19, .19, 1.8, -.12, C('#3a2a20'), { m: DK(0) }); }
   return mb;
 }
 // ---------- trees ----------
@@ -1981,6 +2062,7 @@ function computeLight() {
   const wx = WX[G.wx.type], k = G.wx.amt; const cloud = lerp(WX[0].cloud, wx.cloud, k);
   const grey = dot3(L.hor, [.3, .5, .2]);
   if (cloud > .3) { const c = (cloud - .3) / .7; L.sun = mulC(L.sun, 1 - c * .55); L.zen = mixC(L.zen, mulC([grey, grey, grey * 1.05], .9), c * .7); L.hor = mixC(L.hor, [grey, grey, grey * 1.03], c * .6); L.sky = mulC(L.sky, 1 + c * .15); }
+  if (WX[G.wx.type].rain) { const r = k; L.sun = mulC(L.sun, 1 - r * .25); L.sky = mulC(L.sky, 1 - r * .12); L.hor = mixC(L.hor, [.55, .6, .66], r * .5 * (1 - L.night)); L.zen = mixC(L.zen, [.42, .47, .55], r * .6 * (1 - L.night)); }
   L.cloud = cloud; L.fogD = (1.6 / (G.cam ? G.cam.far : 800)) * lerp(1, wx.fog, k); L.fog = mixC(L.hor, L.zen, .15);
   L.wet = WX[G.wx.type].rain ? k : Math.max(0, (L.wet || 0) - .0005); L.rain = WX[G.wx.type].rain ? k : 0;
   L.sunVis = smooth(0, .12, sy) * (1 - Math.max(0, cloud - .5));
@@ -2026,7 +2108,7 @@ function renderFrame() {
   gl.useProgram(P.sky.p); const su = P.sky.u; gl.uniformMatrix4fv(su.uIVP, false, R.ivp); gl.uniform3fv(su.uSunDir, L.sunDir); gl.uniform3fv(su.uSunCol, mulC(L.sun, L.sunVis * .8 + .2)); gl.uniform3fv(su.uSky, L.zen); gl.uniform3fv(su.uHor, L.hor); gl.uniform3f(su.uCam, c.x, c.y, c.z); gl.uniform1f(su.uNight, L.night); gl.uniform1f(su.uTime, G.t); gl.uniform1f(su.uCloud, L.cloud); gl.uniform1f(su.uQ, R.clouds ? 1 : 0);
   gl.depthFunc(gl.LEQUAL); gl.bindBuffer(gl.ARRAY_BUFFER, GLX.quadBuf); gl.vertexAttribPointer(0, 2, gl.FLOAT, false, 8, 0); gl.drawArrays(gl.TRIANGLES, 0, 3); gl.depthFunc(gl.LESS); DRAWS++;
   // transparent: glow (additive) + particles
-  drawGlows(); drawParticles();
+  drawDecals(); drawGlows(); drawParticles();
 }
 function shadowPass() {
   const L = R.light, c = G.cam, P = G.P; const S = R.shArea; const fx = Math.sin(c.yaw), fz = Math.cos(c.yaw);
@@ -2099,11 +2181,30 @@ function glowBeam(x, y0, z, r, h, col, a) {
   for (let k = 0; k < 4; k++) { const q = o + k * 11; d[q] = P[k][0]; d[q + 1] = P[k][1]; d[q + 2] = P[k][2]; d[q + 3] = col[0]; d[q + 4] = col[1]; d[q + 5] = col[2]; d[q + 6] = a; d[q + 7] = U[k][0] * .9; d[q + 8] = U[k][1]; d[q + 9] = 0; d[q + 10] = 0; }
   GN++;
 }
+function glowSprite(x, y, z, r, col, a) { const v = G.cam.view; const rx = v[0] * r, ry = v[4] * r, rz = v[8] * r, ux = v[1] * r, uy = v[5] * r, uz = v[9] * r; glowQuad([x - rx - ux, y - ry - uy, z - rz - uz], [x + rx - ux, y + ry - uy, z + rz - uz], [x + rx + ux, y + ry + uy, z + rz + uz], [x - rx + ux, y - ry + uy, z - rz + uz], col, a); }
+// soft contact shadows (multiplicative darkening): ambient-occlusion style grounding for cars, trees, people and poles
+function drawDecals() {
+  GN = 0; if (G.quality === 'low') return; const c = G.cam, L = R.light; const k = .55 + .2 * (1 - L.sunVis);
+  for (const v of G.vehicles) { const d = dist2(v.x, v.z, c.x, c.z); if (d > 110 * 110) continue; if (!sphereVisible(c.planes, v.x, v.y, v.z, v.d.L)) continue; const f = vFwd(v); const hl = v.d.L * .62, hw = v.d.W * .78; const fx = f[0] * hl, fz = f[1] * hl, rx = f[1] * hw, rz = -f[0] * hw; const y = v.y + .06;
+    glowQuad([v.x - fx - rx, y, v.z - fz - rz], [v.x - fx + rx, y, v.z - fz + rz], [v.x + fx + rx, y, v.z + fz + rz], [v.x + fx - rx, y, v.z + fz - rz], [k, k, k], 1); }
+  for (const p of G.peds) { const d = dist2(p.x, p.z, c.x, c.z); if (d > 60 * 60) continue; glowDisc(p.x, p.y + .03, p.z, .75, [k, k, k], .8); }
+  const P = G.P; if (P.mode === 'foot' && !P.hidden) glowDisc(P.x, P.y + .03, P.z, .8, [k, k, k], .9);
+  for (const ch of W.chunks) { const b = ch.bb; const dx = Math.max(b[0] - c.x, 0, c.x - b[3]), dz = Math.max(b[2] - c.z, 0, c.z - b[5]); if (Math.hypot(dx, dz) > 90) continue;
+    for (const t of ch.trees) { if (dist2(t.x, t.z, c.x, c.z) > 90 * 90) continue; glowDisc(t.x, t.y + .03, t.z, (t.t === 3 ? 1.5 : 2.6) * t.s, [k * .8, k * .8, k * .8], .8); }
+    for (const l of ch.lamps) { if (dist2(l.x, l.z, c.x, c.z) > 60 * 60) continue; glowDisc(l.x, l.y + .03, l.z, .5, [k, k, k], .9); } }
+  if (!GN) return;
+  const p = GLX.progs.glow; gl.useProgram(p.p); gl.uniformMatrix4fv(p.u.uVP, false, c.vp); gl.uniform1f(p.u.uK, 1);
+  gl.enable(gl.BLEND); gl.blendFunc(gl.ZERO, gl.ONE_MINUS_SRC_COLOR); gl.depthMask(false); gl.disable(gl.CULL_FACE);
+  gl.enable(gl.POLYGON_OFFSET_FILL); gl.polygonOffset(-2, -2);
+  bindPartBuf(R.glowBuf, R.glowData, GN); gl.drawElements(gl.TRIANGLES, GN * 6, gl.UNSIGNED_SHORT, 0); DRAWS++;
+  gl.disable(gl.POLYGON_OFFSET_FILL); gl.depthMask(true); gl.disable(gl.BLEND); gl.enable(gl.CULL_FACE);
+}
 function drawGlows() {
   GN = 0; const L = R.light, c = G.cam;
   // lamp pools & heads at night
   if (L.night > .2) {
-    const k = L.night; for (const lp of W.lampPos) { const d = dist2(lp[0], lp[1], c.x, c.z); if (d > 200 * 200) continue; if (!sphereVisible(c.planes, lp[0], 2, lp[1], 8)) continue; glowDisc(lp[0], .26, lp[1], 7, [1, .78, .45], .55 * k); }
+    const k = L.night; for (const ch of W.chunks) { const b = ch.bb; const dx = Math.max(b[0] - c.x, 0, c.x - b[3]), dz = Math.max(b[2] - c.z, 0, c.z - b[5]); if (Math.hypot(dx, dz) > 240) continue; for (const l of ch.lamps) { const d = dist2(l.x, l.z, c.x, c.z); if (d > 240 * 240) continue; const hx = l.x + Math.sin(l.yaw) * 2, hz = l.z + Math.cos(l.yaw) * 2; if (!sphereVisible(c.planes, hx, 3, hz, 9)) continue; glowDisc(hx, l.y + .07, hz, 8.5, [1, .74, .42], .62 * k); glowDisc(hx, l.y + .08, hz, 3.5, [1, .85, .6], .35 * k); glowSprite(hx, l.y + 6.4, hz, 1.4, [1, .85, .6], .9 * k); if (d < 120 * 120) glowBeam(hx, l.y + .3, hz, 1.6, 6, [1, .82, .55], .07 * k); } }
+    for (const v of G.vehicles) { const d = dist2(v.x, v.z, c.x, c.z); if (d > 160 * 160 || (v.mode === 'parked' && v !== G.P.veh)) continue; const f = vFwd(v), rx = f[1], rz = -f[0], hL = v.d.L / 2, w = v.d.W * .32, y = v.y + .62; for (const s of [-1, 1]) { glowSprite(v.x + f[0] * (hL + .1) + rx * w * s, y, v.z + f[1] * (hL + .1) + rz * w * s, .9, [1, .95, .82], .85 * k); glowSprite(v.x - f[0] * (hL + .1) + rx * w * s, y + .1, v.z - f[1] * (hL + .1) + rz * w * s, v.brake ? .8 : .5, [1, .15, .1], (v.brake ? .9 : .5) * k); } }
     // vehicle headlight pools
     for (const v of G.vehicles) { const d = dist2(v.x, v.z, c.x, c.z); if (d > 150 * 150 || v.mode === 'parked') continue; const f = vFwd(v); const x = v.x + f[0] * (v.d.L / 2 + 5), z = v.z + f[1] * (v.d.L / 2 + 5); glowDisc(x, v.y + .08, z, 4.5, [1, .92, .75], .5 * k); }
     if (W.lighthouse) { const [x, y, z] = W.lighthouse; const a = G.t * 1.2; for (const s of [0, PI]) { const ex = x + Math.cos(a + s) * 120, ez = z + Math.sin(a + s) * 120; glowQuad([x, y + .5, z], [x, y - .5, z], [ex, y - 8, ez], [ex, y + 8, ez], [1, .95, .7], .12 * k); } }
@@ -2114,8 +2215,12 @@ function drawGlows() {
   for (const s of W.stars) { if (SAVE.stars.includes(s.id)) continue; const d = dist2(s.x, s.z, c.x, c.z); if (d > 160 * 160) continue; glowBeam(s.x, s.y - 1, s.z, 1.2, 4, [1, .85, .3], .35); }
   // rain streaks
   if (L.rain > .05) {
-    const n = Math.floor(600 * L.rain * (G.quality === 'low' ? .4 : 1)); const cx = c.x, cy = c.y, cz = c.z; const rx = Math.cos(c.yaw) * .025, rz = -Math.sin(c.yaw) * .025;
-    for (let i = 0; i < n; i++) { const h1 = hash1(i * 7 + 1), h2 = hash1(i * 13 + 5), h3 = hash1(i * 3 + 11); const x = cx + (h1 - .5) * 50 + Math.sin(c.yaw) * 18, z = cz + (h2 - .5) * 50 + Math.cos(c.yaw) * 18; const y = cy + 18 - ((G.t * 26 + h3 * 40) % 40); glowQuad([x - rx, y, z - rz], [x + rx, y, z + rz], [x + rx - .15, y - 1.3, z + rz], [x - rx - .15, y - 1.3, z - rz], [.6, .7, .85], .35); }
+    const n = Math.floor(1900 * L.rain * (G.quality === 'low' ? .35 : G.quality === 'mid' ? .7 : 1)); const cx = c.x, cy = c.y, cz = c.z; const rx = Math.cos(c.yaw) * .045, rz = -Math.sin(c.yaw) * .045; const sx = Math.sin(c.yaw), sz = Math.cos(c.yaw);
+    const rc = L.night > .5 ? [.5, .55, .7] : [.75, .8, .9];
+    for (let i = 0; i < n; i++) { const h1 = hash1(i * 7 + 1), h2 = hash1(i * 13 + 5), h3 = hash1(i * 3 + 11); const rr = 3 + h1 * h1 * 24, aa = h2 * TAU; const x = cx + Math.cos(aa) * rr + sx * 7, z = cz + Math.sin(aa) * rr + sz * 7; const y = cy + 9 - ((G.t * 28 + h3 * 22) % 22); const ln = .7 + h3 * .7; const w = .022 + rr * .003;
+      if (GN >= 2900) break; const d = R.glowData, o = GN * 44; const P = [[x - rx * w / .045, y, z - rz * w / .045], [x + rx * w / .045, y, z + rz * w / .045], [x + rx * w / .045 - .22, y - ln, z + rz * w / .045 - .08], [x - rx * w / .045 - .22, y - ln, z - rz * w / .045 - .08]], U = [[-1, .2], [1, .2], [1, 0], [-1, 0]];
+      for (let q = 0; q < 4; q++) { const b = o + q * 11; d[b] = P[q][0]; d[b + 1] = P[q][1]; d[b + 2] = P[q][2]; d[b + 3] = rc[0]; d[b + 4] = rc[1]; d[b + 5] = rc[2]; d[b + 6] = .38; d[b + 7] = U[q][0]; d[b + 8] = U[q][1]; d[b + 9] = 0; d[b + 10] = 0; } GN++; }
+    const ns = Math.floor(160 * L.rain * (G.quality === 'low' ? .3 : 1)); for (let i = 0; i < ns; i++) { const ph = (G.t * 3 + hash1(i * 5 + 2)) % 1, cyc = Math.floor(G.t * 3 + hash1(i * 5 + 2)); const h1 = hash1(i * 11 + cyc * 17), h2 = hash1(i * 19 + cyc * 31); const x = cx + sx * 14 + (h1 - .5) * 36, z = cz + sz * 14 + (h2 - .5) * 36; glowDisc(x, groundH(x, z) + .05, z, .15 + ph * .45, rc, .5 * (1 - ph)); }
   }
   for (const f of G.glowFx || []) glowDisc(f.x, f.y, f.z, f.r, f.c, f.a);
   if (!GN) return;
